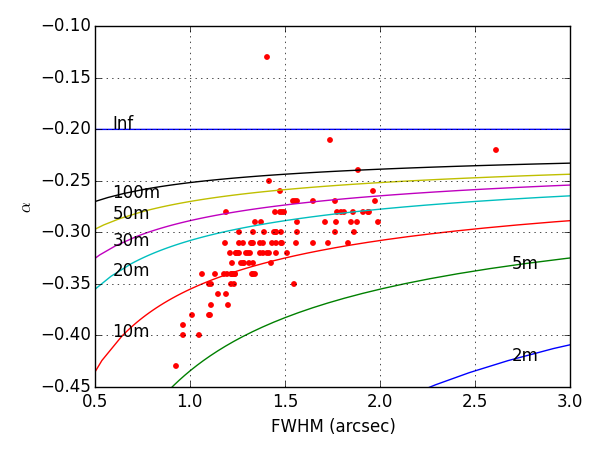
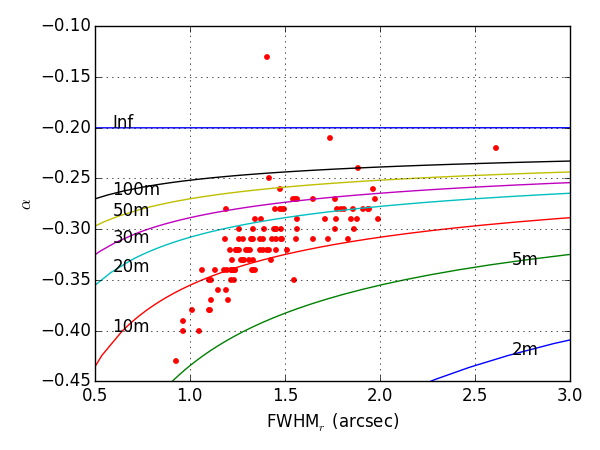
minor updates to paper

diff --git a/FWHManalysis.tex b/FWHManalysis.tex
@@ -10,7 +10,7 @@ a single parameter, FWHM, we study three aspects of its variation, as follows.
 The Kolmogorov turbulence theory gives a standard formula for the FWHM of a long-exposure
 seeing-limited PSF in a large telescope,
 \begin{equation}
-FWHM^{Kolm}(\lambda, X) = \frac{0.976\lambda}{r_0(\lambda,X)}.
+\textrm{FWHM}^{\rm Kolm}(\lambda, X) = \frac{0.976\lambda}{r_0(\lambda,X)}.
 \label{eq:fwhmkolm}
 \end{equation}
 Here $\lambda$ is the wavelength, and $X$ is the airmass.
@@ -24,25 +24,24 @@ where $r_0(500)$ is the $r_0$ for $\lambda=500$nm and $X$=1, and $\lambda$ is in
 the unit of nm.
 Substituting Eq.~(\ref{eq:r0}) into (\ref{eq:fwhmkolm}), it is easy to see
 \begin{equation}
-FWHM^{Kolm} \propto \lambda^{-0.2}.
+\textrm{FWHM}^{\rm Kolm} \propto \lambda^{-0.2}.
 \end{equation}
 
 
-With the von Karman atmosphere model, the FWHM as in
+With the \vk~atmosphere model, the FWHM as in
 Eq.~(\ref{eq:fwhmkolm}) needs an additional correction factor
 which is a function of the outer scale $L_0$~\citep{Tokovinin2002},
 \begin{equation}
-FWHM^{vonK}(\lambda, X) = \frac{0.976\lambda}{r_0(\lambda,X)}
+\textrm{FWHM}^{\rm vonK}(\lambda, X) = \frac{0.976\lambda}{r_0(\lambda,X)}
 \sqrt{1-2.183\left( \frac{r_0(\lambda,X) }{L_0} \right)^{0.356}}.
 \end{equation}
-If we still want to write $FWHM^{vonK} \propto \lambda^{\alpha} $, 
+If we still want to write FWHM$^{\rm vonK} \propto \lambda^{\alpha} $, 
 $\alpha$ will be a function of $L_0$ and $r_0$ at a specified
-wavelength and airmass, or equivalently, $L_0$ and $FWHM^{vonK}$ at a
-specified wavelength and airmass. Below, we will use SDSS 
+wavelength and airmass, or equivalently, $L_0$ and FWHM$^{\rm vonK}$ at a
+specified wavelength and airmass. Below, for FWHM, we will use FWHM$_r$,
 PSF FWHM measurements from the 
 $r$-band,
 whose effective wavelength is 616.6 nm, and airmass of 1.
-In this work, we always use FWHM to refer to FWHM$^{vonK}$.
 
 For each run from SDSS Stripe 82 data, and each camera column, we make
 a least-square fit to
@@ -52,7 +51,7 @@ All FWHM are multiplied with $1/X^{0.6}$ to correct for airmass.
 We take into account that the same field number doesn't correspond to the same
 time in all filters. The scanning order in the SDSS camera is $r$-$i$-$u$-$z$-$g$, with the delay between the two 
 successive filters corresponding to 2 fields. That is, If we take the field number $F$ for the $r$-band, then
-we need to take FWHM for the $i$-band from field $F-2$, for the u band
+we need to take FWHM for the $i$-band from field $F-2$, for the $u$-band
 from $F-4$, and so on. Fig.~\ref{fig:fwhm_lambda} shows such fits for
 run 4874. All FWHM are normalized using corresponding FWHM in the
 $r$-band taken at the same moment in time.
@@ -68,27 +67,27 @@ also shown.
 \label{fig:fwhm_lambda}}
 \end{figure}
 
-As discussed above, based on the von Karman atmosphere model, the
-power $\alpha$ should be a function of outer scale $L_0$ and the
-FWHM in a specified optical band.
+As discussed above, based on the \vk~atmosphere model, the
+power $\alpha$ should be a function of outer scale $L_0$ and %the
+FWHM$_r$. % in a specified optical band.
 Fig.~\ref{fig:alpha_fwhm} is a scattered plot of $\alpha$ versus FWHM
 in the $r$-band, for all the Stripe 82 runs.
 A correlation between $\alpha$ and the FWHM seems to be present.
 Similar correlations have been seen in Subaru images and reported by~\cite{subaruSeeing2016}.
-The data points are overlaid with curves as predicted by the von
-Karman model, with varying $L_0$, ranging from 2 meters to infinity.
-The data clear deviate from the Kolmogorov model prediction, which is
+The data points are overlaid with curves as predicted by the 
+\vk~model, with varying $L_0$, ranging from 2 meters to infinity.
+The data clearly deviate from the Kolmogorov model prediction, which is
 the horizontal line at $\alpha = -0.20$, with infinite $L_0$.
 For LSST, using the commonly assumed $L_0 = 30$m, and a FWHM of 0.6
-arcsec, we get a $\alpha$ value close to $-0.30$.
+arcsec, the \vk~model predicts a $\alpha$ value close to $-0.30$.
 
 \begin{figure}
 \centering
 \includegraphics[width=0.5\textwidth]{FIGURES/alpha_fwhm.png}
 \caption{Wavelength-dependence power parameter $\alpha$ vs the
   FWHM in the $r$-band for all the Stripe 82 runs. 
-The curves are predictions of the von Karman
-  model, with $L_0$ ranging from 2 meters to infinity.
+The curves are predictions of the \vk~model, 
+with $L_0$ ranging from 2 meters to infinity.
 \label{fig:alpha_fwhm}}
 \end{figure}
 
@@ -115,9 +114,11 @@ spaced by 6 arcminutes with non-perturbed telescope and ideal sensors.
 The results are averaged over 9 different atmosphere realizations with
 different wind and screen parameters and airmass, and with 3 different
 wavelength, 350 nm, 660 nm, and 970 nm.
-The CFHT PSF size measurements are provided by Heymans.
+The CFHT PSF size measurements were made in the $i$-band, and provided
+by the authors of~\cite{heymans2012}.
 The 3 curves in Fig.~\ref{fig:spatial} appear to be quantitatively
-consistent with each other, even though they are for different telescopes.
+consistent with each other, even though they are for telescopes at
+different sites and with different optics.
 
 
 \begin{figure}
@@ -132,13 +133,13 @@ consistent with each other, even though they are for different telescopes.
 
 \subsection{Temporal auto-correlation function}
 
-To study the temporal behavior of the seeing, we look at the 
+To study the temporal behavior of the seeing, we look at its
  power spectrum.
 Fig.~\ref{fig:psd} shows the temporal power spectral density (PSD) of the
 PSF FWHM for 6 camera columns, in run 4874, $r$-band.
 We fit the PSD to the damped random walk model~\citep{zeljkoBook},
 \begin{equation}
-PSD(f) = \frac{\tau^2 SF^2_{\infty}}{1+(2\pi f \tau)^2},
+\textrm{PSD}(f) = \frac{\tau^2 SF^2_{\infty}}{1+(2\pi f \tau)^2},
 \end{equation}
 where $f$ is the temporal frequency, $SF_{\infty}$ is the asymptotic
 value of the structure function, and $\tau$ is the

diff --git a/PSFprofile.tex b/PSFprofile.tex
@@ -2,16 +2,16 @@
 %  \section{The PSF profile analysis}
 
 Since the 6-parameter PSF fits was adopted by the SDSS processing
-pipeline, significant progress has been made in validating the von
-Karman model of the atmosphere and measuring the associated outer
+pipeline, significant progress has been made in validating the 
+\vk~model of the atmosphere and measuring the associated outer
 scale. See, for example, \cite{Tokovinin2002},
 \cite{Boccas2004}, and \cite{MartinezMessenger}.
 In this section, we describe our 2-parameter fits to the SDSS PSF
-profiles using the von Karman atmosphere model.
+profiles using the \vk~atmosphere model.
 
 Our fits to each PSF profile is a 2-step process. First we fit the
-measured PSF profile to a von Karman PSF, with only one free parameter -
-the FWHM of the von Karman profile. Although the fitted
+measured PSF profile to a \vk~PSF, with only one free parameter -
+the FWHM of the \vk~profile. Although the fitted
 curve agrees with the input data points very well, better than the
 original 6-parameter double-Gaussian fit in general, it doesn't always describe
 the PSF tail beyond $\sim 15$ arcsec radius. This is obvious, because
@@ -25,22 +25,22 @@ thick front-side chips are used (in all other bands, thin back-side chips are us
 
 In the second step of our PSF modeling, we introduce an
 empirical instrument PSF, so that the observed PSF can be expressed as
-a convolution of the atmosphere, represented by the von Karman, and
+a convolution of the atmosphere, represented by the \vk, and
 the instrument PSF,
 
 \begin{equation}
-        PSF = vK (FWHM) \otimes PSF_{inst},
+        \textrm{PSF} = \textrm{vonK} (\textrm{FWHM}) \otimes \textrm{PSF}_{\textrm{inst}},
 \end{equation} 
-where
+where vonK is the \vk~shape, whose only parameter is its FWHM, and
 \begin{equation}
-        PSF_{inst} = \exp(-\frac{r^2}{2\sigma^2}) + 10^{\eta(ar^2+br+c)}.
+        \textrm{PSF}_{\textrm{inst}} = \exp(-\frac{r^2}{2\sigma^2}) + 10^{\eta(ar^2+br+c)}.
 \label{eq:psfinst}
 \end{equation} 
 Because the shape of the instrument PSF tail should not vary with
 time, the parameters $a$, $b$, and $c$ in Eq.~(\ref{eq:psfinst}) are
 fixed for each band-camera-column combination.
 Their values come from a one-time fit using the same PSF functions,
-but with $a$, $b$, and $c$ as free parameters.
+but with $a$, $b$, and $c$ as additional free parameters.
 We used run 94, field 0 for these one-time fits. It can be any other
 run and field.
 These fits are slow and unstable. But we only do them once.
@@ -49,32 +49,33 @@ there is only one free parameter in the fit -
 $\eta$, the normalization of the instrument PSF tail.
 Each two-step PSF fit can be done in a few seconds.
 
-The von Karman PSF profile is generated by creating the atmosphere
+The \vk~PSF profile is generated by creating the atmosphere
 structure function first, as given by Eq. (18) in \cite{Tokovinin2002}, then calculating the
-PSF through the Optical Transfer Function (OTF). We have assumed the
+PSF through the Optical Transfer Function. We have assumed the
 outer scale of 30 meters.
 Ideally, one wants to use the Fried parameter $r_0$ as the free
-parameter in the fit to the von Karman model. 
+parameter in the fit to the \vk~model. 
 But that requires us to calculate the special functions and do the
 Fourier Transform on a large array for each function evaluation.
-Instead, we opt to generate one von Karman PSF template with FWHM of 1
-arcsec. In our 1-parameter von Karman fit, we only stretch or compress
+Instead, we opt to generate one \vk~PSF template with FWHM of 1
+arcsec. In our 1-parameter \vk~fit, we only stretch or compress
 the template radially to get the best match with the data, in the
 least-square sense.
 Fig.~\ref{fig:psffit} shows the results of our PSF fits from run 4874,
-field 0. The red lines are after 1-parameter von Karman fit. 
-The blue lines are after including the instrument PSF.
+field 0. The red dashed lines are after 1-parameter \vk~fit. 
+The blue solid lines are after including the instrument PSF.
 The fits are seen to describe the PSF profiles well, both in
 the center core and the tail.
 There are a total of 108 runs in the SDSS Stripe 82 dataset.
-Among them, run 4874 is the longest, with 981 fields. When we show
+Among them, run 4874 is the longest, with 981 fields. In the rest of
+this paper, whenever we show
 results for single runs, we always use run 4874 as the example.
 
 \begin{figure}
 \centering
 \includegraphics[width=0.9\textwidth]{FIGURES/psffit.png}
 \caption{Fit to the PSF profiles from run 4874, field 0. Red curves
-  are results of 1-parameter von Karman fits. Blue curves are red
+  are results of 1-parameter \vk~fits. Blue curves are red
   curve convolved with the instrument PSF, where the scaling factor on
   the tail component is allowed to vary. Note that the y-axis is on
   logorithm scale.

diff --git a/intro.tex b/intro.tex
@@ -2,7 +2,7 @@
 % \section{Introduction}
 
 The atmospheric seeing, the point-spread function (PSF) due to atmospheric turbulence, plays
-a major role in ground-based astronomy \cite{Roddier1981}. An adequate description 
+a major role in ground-based astronomy \citep{Roddier1981}. An adequate description 
 of the PSF is critical for photometry, star-galaxy separation, and for unbiased measures of 
 the shapes of nonstellar objects \citep{Lupton2001}. In addition, better understanding of the 
 PSF temporal variation can lead to improved seeing forecasts; for example, such forecasts are 
@@ -12,14 +12,15 @@ Seeing varies with the wavelength of observation, and it also varies with time, 
 scales ranging from minutes to years. These variations, as well as the radial seeing (PSF) 
 profile, can be understood as manifestations of atmospheric instabilities due to turbulent layers. 
 Although turbulence is a complex physical phenomenon, the basic properties of the atmospheric
-seeing can be predicted from first principles (\cite{Racine2009}). The Von Karman turbulence theory, 
+seeing can be predicted from first principles (\cite{Racine2009}). The
+\vk~turbulence theory, 
 an extension of the Komogorov theory that introduces a finite size for turbulent eddies (the so-called
 outer scale parameter), quantitatively predicts the seeing profile and the variation of seeing
 with wavelength (\cite{vk1, vk2}). Therefore, seeing measurements can be used to test the theory and estimate
 the relevant physical parameters. 
 
 The Sloan Digital Sky Survey (SDSS, \citealt{York2000}), a large-area multi-bandpass sky survey
-provided a large databased of seeing measurements. The SDSS delivered homogeneous and deep 
+provided a large database of seeing measurements. The SDSS delivered homogeneous and deep 
 ($r\la22.5$) photometry in five bandpasses ($u$, $g$, $r$, $i$, and $z$, with effective wavelengths 
 of 3551, 4686, 6166, 7480, and 8932 $\AA$), accurate to about 0.02 mag for unresolved sources 
 not limited by photon statistics \citep{Sesar2007}. Astrometric positions are accurate to better 
@@ -28,7 +29,7 @@ information from the images allows reliable star-galaxy separation to $r<21.5$ \
  
 The SDSS camera (Gunn et al. 1998) used drift-scanning observing mode (scanning along great circles
 at the sidereal rate) and detected objects in the order 
-$r-i-u-z-g$, with detections in two successive bands separated in time by 72 s. Each of the six camera
+$r$-$i$-$u$-$z$-$g$, with detections in two successive bands separated in time by 72 s. Each of the six camera
 columns produces a 13.5 arcmin wide scan; the scans are split into fields 9.0 arcmin long, corresponding
 to 36 seconds of time (the exposure time is 54.1 seconds because the sensor size is 2k by 2k pixels,
 with 0.396 arcsec per pixel). 

diff --git a/sdsspsf.tex b/sdsspsf.tex
@@ -1,6 +1,7 @@
 \documentclass[12pt,preprint]{aastex}
 
 \newcommand{\vdag}{(v)^\dagger}
+\newcommand{\vk}{von K\'{a}rm\'{a}n}
 \newcommand{\myemail}{skywalker@galaxy.far.far.away}
 \slugcomment{Draft version}
  
@@ -23,7 +24,7 @@
 We use SDSS imaging data in $ugriz$ passbands to study the shape of
 point spread function (PSF) profile and the variation of its width with 
 wavelength and time. We find that the PSF profile is well described by 
-theoretical predictions based on von Karman's turbulence theory and
+theoretical predictions based on \vk's turbulence theory and
 can be parametrized by two parameter, the profile's FWHM (full width
 at half maximum) and a normalization on a empirical instrumental PSF. 
 The profile shape is very similar to the ``double gaussian
@@ -142,7 +143,7 @@ Bo: add analysis directory and py code
 
 1)  make files, one per run, as a function of field number, with
 - field, camera column, bandpass, 
-- one-parameter fit FWHM from fitting von Karman profile
+- one-parameter fit FWHM from fitting \vk profile
 - other SDSS params: psf_width, airmass, mjd, psf_nstar, neff_psf, sky_frames 
 
 

diff --git a/analysis/source/correlate.py b/analysis/source/correlate.py
@@ -20,7 +20,7 @@ plt.figure(figsize=(6,4.5))
 #plt.subplot(1,2,2)
 plt.scatter(seeing, alpha, s=10, c='r', edgecolors='r')
 plt.grid()
-plt.xlabel(r'FWHM (arcsec)') # (spatial correlation slope)')
+plt.xlabel(r'FWHM$_r$ (arcsec)') # (spatial correlation slope)')
 plt.ylabel(r'$\alpha$')
 
 #The files below have the von Karman prediction curves we show on the alpha vs seeing plots.
